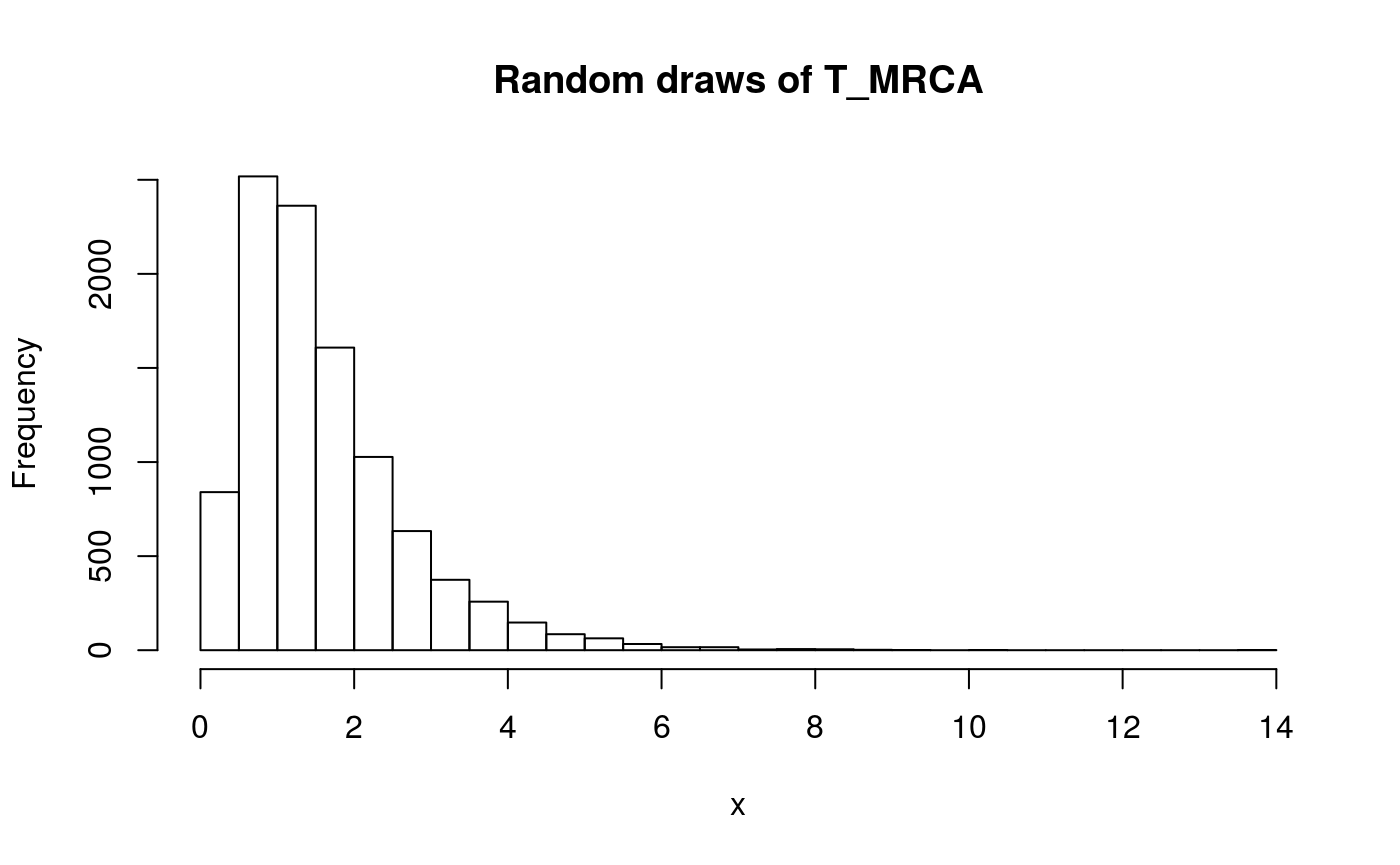
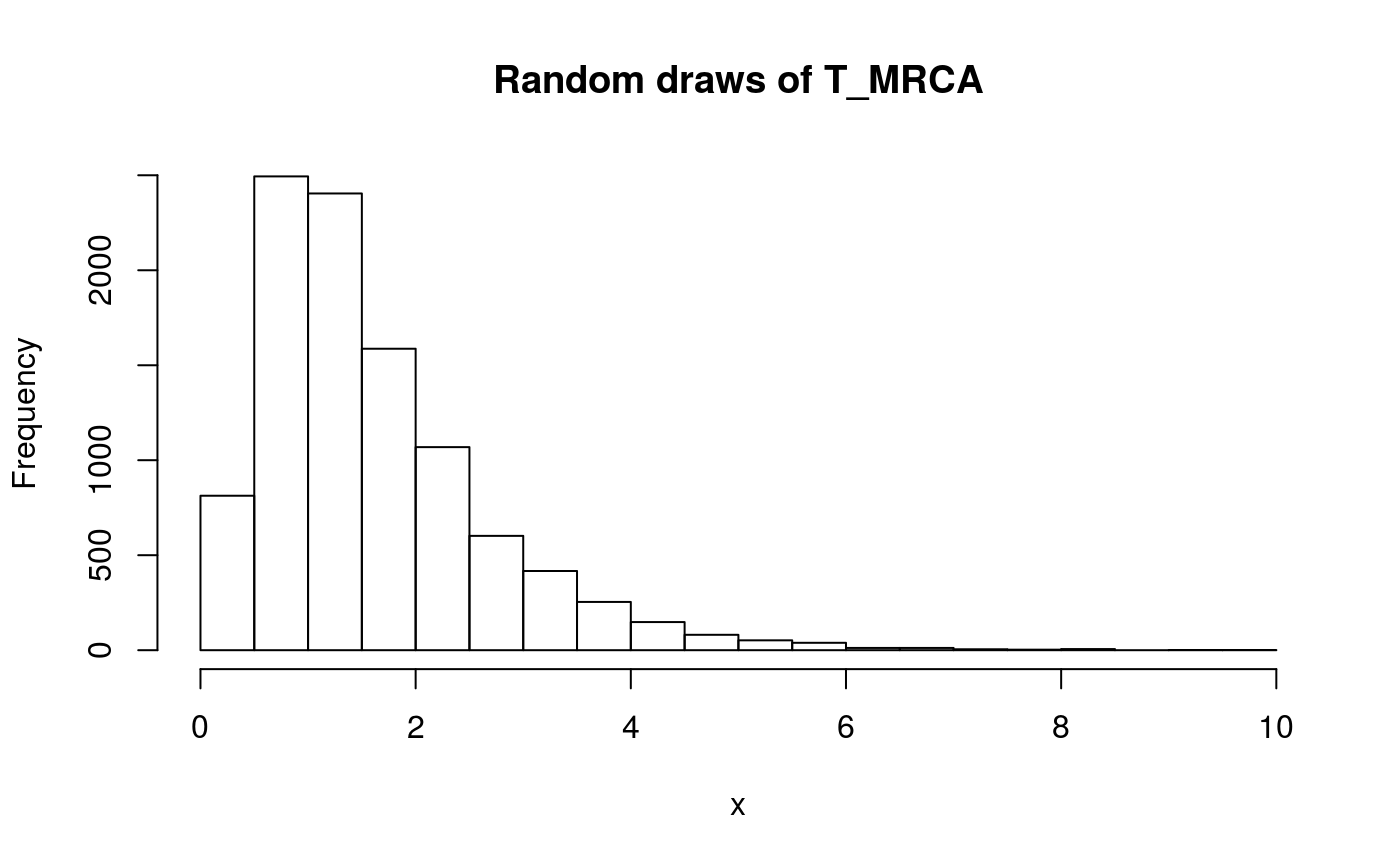
Updated references of website

diff --git a/docs/articles/ticphasetype.html b/docs/articles/ticphasetype.html
@@ -174,9 +174,9 @@
 <a class="sourceLine" id="cb8-13" data-line-number="13">subint_arbit[n<span class="dv">-1</span>,n<span class="dv">-1</span>] &lt;-<span class="st"> </span><span class="dv">-1</span></a></code></pre></div>
 <div class="sourceCode" id="cb9"><pre class="sourceCode r"><code class="sourceCode r"><a class="sourceLine" id="cb9-1" data-line-number="1">subint_arbit</a>
 <a class="sourceLine" id="cb9-2" data-line-number="2"><span class="co">#&gt;           [,1]       [,2]      [,3]      [,4]</span></a>
-<a class="sourceLine" id="cb9-3" data-line-number="3"><span class="co">#&gt; [1,] -16.77763   6.516313  7.696890  2.564430</span></a>
-<a class="sourceLine" id="cb9-4" data-line-number="4"><span class="co">#&gt; [2,]   0.00000 -11.832978  6.306856  5.526122</span></a>
-<a class="sourceLine" id="cb9-5" data-line-number="5"><span class="co">#&gt; [3,]   0.00000   0.000000 -5.070151  5.070151</span></a>
+<a class="sourceLine" id="cb9-3" data-line-number="3"><span class="co">#&gt; [1,] -12.73908   6.881229  1.644583  4.213269</span></a>
+<a class="sourceLine" id="cb9-4" data-line-number="4"><span class="co">#&gt; [2,]   0.00000 -11.098583  8.338307  2.760276</span></a>
+<a class="sourceLine" id="cb9-5" data-line-number="5"><span class="co">#&gt; [3,]   0.00000   0.000000 -1.147533  1.147533</span></a>
 <a class="sourceLine" id="cb9-6" data-line-number="6"><span class="co">#&gt; [4,]   0.00000   0.000000  0.000000 -1.000000</span></a></code></pre></div>
 <p>This matrix can be supplied to the <code><a href="../reference/cont_phase_type.html">cont_phase_type()</a></code> generator function, together with optional initial probabilities:</p>
 <div class="sourceCode" id="cb10"><pre class="sourceCode r"><code class="sourceCode r"><a class="sourceLine" id="cb10-1" data-line-number="1">T_arbit_ph &lt;-<span class="st"> </span><span class="kw"><a href="../reference/cont_phase_type.html">cont_phase_type</a></span>(<span class="dt">subint_mat =</span> subint_arbit)</a>
@@ -188,9 +188,9 @@
 <a class="sourceLine" id="cb11-2" data-line-number="2"><span class="co">#&gt; </span></a>
 <a class="sourceLine" id="cb11-3" data-line-number="3"><span class="co">#&gt; Subintensity matrix:</span></a>
 <a class="sourceLine" id="cb11-4" data-line-number="4"><span class="co">#&gt;           [,1]       [,2]      [,3]      [,4]</span></a>
-<a class="sourceLine" id="cb11-5" data-line-number="5"><span class="co">#&gt; [1,] -16.77763   6.516313  7.696890  2.564430</span></a>
-<a class="sourceLine" id="cb11-6" data-line-number="6"><span class="co">#&gt; [2,]   0.00000 -11.832978  6.306856  5.526122</span></a>
-<a class="sourceLine" id="cb11-7" data-line-number="7"><span class="co">#&gt; [3,]   0.00000   0.000000 -5.070151  5.070151</span></a>
+<a class="sourceLine" id="cb11-5" data-line-number="5"><span class="co">#&gt; [1,] -12.73908   6.881229  1.644583  4.213269</span></a>
+<a class="sourceLine" id="cb11-6" data-line-number="6"><span class="co">#&gt; [2,]   0.00000 -11.098583  8.338307  2.760276</span></a>
+<a class="sourceLine" id="cb11-7" data-line-number="7"><span class="co">#&gt; [3,]   0.00000   0.000000 -1.147533  1.147533</span></a>
 <a class="sourceLine" id="cb11-8" data-line-number="8"><span class="co">#&gt; [4,]   0.00000   0.000000  0.000000 -1.000000</span></a>
 <a class="sourceLine" id="cb11-9" data-line-number="9"><span class="co">#&gt; </span></a>
 <a class="sourceLine" id="cb11-10" data-line-number="10"><span class="co">#&gt; Initial probabilities:</span></a>
@@ -200,9 +200,9 @@
 <a class="sourceLine" id="cb11-14" data-line-number="14"><span class="co">#&gt; Defect:</span></a>
 <a class="sourceLine" id="cb11-15" data-line-number="15"><span class="co">#&gt; [1] 0</span></a>
 <a class="sourceLine" id="cb11-16" data-line-number="16"><span class="co">#&gt; </span></a>
-<a class="sourceLine" id="cb11-17" data-line-number="17"><span class="co">#&gt; Mean: 1.223737</span></a>
+<a class="sourceLine" id="cb11-17" data-line-number="17"><span class="co">#&gt; Mean: 1.593318</span></a>
 <a class="sourceLine" id="cb11-18" data-line-number="18"><span class="co">#&gt; </span></a>
-<a class="sourceLine" id="cb11-19" data-line-number="19"><span class="co">#&gt; Variance: 1.040859</span></a></code></pre></div>
+<a class="sourceLine" id="cb11-19" data-line-number="19"><span class="co">#&gt; Variance: 1.62606</span></a></code></pre></div>
 </div>
 <div id="density-distribution-and-quantile-functions" class="section level2">
 <h2 class="hasAnchor">
@@ -233,7 +233,7 @@
 <a class="sourceLine" id="cb17-5" data-line-number="5"><span class="kw"><a href="https://rdrr.io/r/graphics/title.html">title</a></span>(<span class="st">'Distribution function of T_MRCA'</span>)</a></code></pre></div>
 <p><img src="ticphasetype_files/figure-html/unnamed-chunk-17-1.png" width="700"></p>
 <div class="sourceCode" id="cb18"><pre class="sourceCode r"><code class="sourceCode r"><a class="sourceLine" id="cb18-1" data-line-number="1"><span class="kw"><a href="../reference/dphtype.html">rphtype</a></span>(<span class="dv">3</span>, T_MRCA_ph)</a>
-<a class="sourceLine" id="cb18-2" data-line-number="2"><span class="co">#&gt; [1] 1.175846 1.442736 0.644917</span></a></code></pre></div>
+<a class="sourceLine" id="cb18-2" data-line-number="2"><span class="co">#&gt; [1] 2.978160 1.627345 2.093345</span></a></code></pre></div>
 <div class="sourceCode" id="cb19"><pre class="sourceCode r"><code class="sourceCode r"><a class="sourceLine" id="cb19-1" data-line-number="1">x &lt;-<span class="st"> </span><span class="kw"><a href="../reference/dphtype.html">rphtype</a></span>(<span class="dv">10000</span>, T_MRCA_ph)</a>
 <a class="sourceLine" id="cb19-2" data-line-number="2"><span class="kw"><a href="https://rdrr.io/r/graphics/hist.html">hist</a></span>(x, <span class="dt">main =</span> <span class="st">'Random draws of T_MRCA'</span>, <span class="dt">breaks=</span><span class="dv">20</span>)</a></code></pre></div>
 <p><img src="ticphasetype_files/figure-html/unnamed-chunk-19-1.png" width="700"></p>
@@ -458,7 +458,7 @@
 <a class="sourceLine" id="cb31-5" data-line-number="5"><span class="kw"><a href="https://rdrr.io/r/graphics/title.html">title</a></span>(<span class="st">'Quantile function of S_total with theta=3 and n=10'</span>)</a></code></pre></div>
 <p><img src="ticphasetype_files/figure-html/unnamed-chunk-31-1.png" width="700"></p>
 <div class="sourceCode" id="cb32"><pre class="sourceCode r"><code class="sourceCode r"><a class="sourceLine" id="cb32-1" data-line-number="1"><span class="kw"><a href="../reference/dphtype.html">rphtype</a></span>(<span class="dv">3</span>, S_tot_ph)</a>
-<a class="sourceLine" id="cb32-2" data-line-number="2"><span class="co">#&gt; [1] 10 23 10</span></a></code></pre></div>
+<a class="sourceLine" id="cb32-2" data-line-number="2"><span class="co">#&gt; [1] 11  3  7</span></a></code></pre></div>
 <div class="sourceCode" id="cb33"><pre class="sourceCode r"><code class="sourceCode r"><a class="sourceLine" id="cb33-1" data-line-number="1">x &lt;-<span class="st"> </span><span class="kw"><a href="../reference/dphtype.html">rphtype</a></span>(<span class="dv">10000</span>, S_tot_ph)</a>
 <a class="sourceLine" id="cb33-2" data-line-number="2"><span class="kw"><a href="https://rdrr.io/r/graphics/hist.html">hist</a></span>(x, <span class="dt">main =</span> <span class="st">'Random draws of S_total with theta=3 and n=10'</span>, <span class="dt">breaks=</span><span class="dv">20</span>)</a></code></pre></div>
 <p><img src="ticphasetype_files/figure-html/unnamed-chunk-33-1.png" width="700"></p>

diff --git a/docs/reference/index.html b/docs/reference/index.html
@@ -120,23 +120,11 @@
     <tbody>
       <tr>
         <th colspan="2">
-          <h2 id="section-all-functions" class="hasAnchor"><a href="#section-all-functions" class="anchor"></a>All functions</h2>
+          <h2 id="section-continuous-phase-type-distributions" class="hasAnchor"><a href="#section-continuous-phase-type-distributions" class="anchor"></a>Continuous phase-type distributions</h2>
           <p class="section-desc"></p>
         </th>
       </tr>
       <tr>
-        
-        <td>
-          <p><code><a href="RateMAndStateSpace.html">RateMAndStateSpace()</a></code> </p>
-        </td>
-        <td><p>RateMAndStateSpace</p></td>
-      </tr><tr>
-        
-        <td>
-          <p><code><a href="RewTransform.html">RewTransform()</a></code> </p>
-        </td>
-        <td><p>Discretize MPH object with a reward vector</p></td>
-      </tr><tr>
         
         <td>
           <p><code><a href="cont_phase_type.html">cont_phase_type()</a></code> </p>
@@ -145,22 +133,29 @@
       </tr><tr>
         
         <td>
+          <p><code><a href="t_mrca.html">t_mrca()</a></code> </p>
+        </td>
+        <td><p>Time until the most recent common ancestor</p></td>
+      </tr><tr>
+        
+        <td>
+          <p><code><a href="t_total.html">t_total()</a></code> </p>
+        </td>
+        <td><p>Total tree length</p></td>
+      </tr>
+    </tbody><tbody>
+      <tr>
+        <th colspan="2">
+          <h2 id="section-discrete-phase-type-distributions" class="hasAnchor"><a href="#section-discrete-phase-type-distributions" class="anchor"></a>Discrete phase-type distributions</h2>
+          <p class="section-desc"></p>
+        </th>
+      </tr>
+      <tr>
+        
+        <td>
           <p><code><a href="disc_phase_type.html">disc_phase_type()</a></code> </p>
         </td>
         <td><p><code>disc_phase_type</code> class</p></td>
-      </tr><tr>
-        
-        <td>
-          <p><code><a href="dphtype.html">dphtype()</a></code> <code><a href="dphtype.html">qphtype()</a></code> <code><a href="dphtype.html">pphtype()</a></code> <code><a href="dphtype.html">rphtype()</a></code> </p>
-        </td>
-        <td><p>Density, distribution function, quantile function and random generation for
-phase-type distributions</p></td>
-      </tr><tr>
-        
-        <td>
-          <p><code><a href="itons.html">itons()</a></code> </p>
-        </td>
-        <td><p>I-tons (frequency counts)</p></td>
       </tr><tr>
         
         <td>
@@ -176,21 +171,9 @@ phase-type distributions</p></td>
       </tr><tr>
         
         <td>
-          <p><code><a href="sfs.html">sfs()</a></code> </p>
+          <p><code><a href="itons.html">itons()</a></code> </p>
         </td>
-        <td><p>Site Frequency Spectrum</p></td>
-      </tr><tr>
-        
-        <td>
-          <p><code><a href="t_mrca.html">t_mrca()</a></code> </p>
-        </td>
-        <td><p>Time until the most recent common ancestor</p></td>
-      </tr><tr>
-        
-        <td>
-          <p><code><a href="t_total.html">t_total()</a></code> </p>
-        </td>
-        <td><p>Total tree length</p></td>
+        <td><p>I-tons (frequency counts)</p></td>
       </tr><tr>
         
         <td>
@@ -200,9 +183,44 @@ phase-type distributions</p></td>
       </tr><tr>
         
         <td>
-          <p><code><a href="var.html">var()</a></code> </p>
+          <p><code><a href="sfs.html">sfs()</a></code> </p>
         </td>
-        <td><p>Variance of cont_phase_type distributions</p></td>
+        <td><p>Site Frequency Spectrum</p></td>
+      </tr>
+    </tbody><tbody>
+      <tr>
+        <th colspan="2">
+          <h2 id="section-distribution-quantile-and-probability-functions" class="hasAnchor"><a href="#section-distribution-quantile-and-probability-functions" class="anchor"></a>Distribution, quantile and probability functions</h2>
+          <p class="section-desc"></p>
+        </th>
+      </tr>
+      <tr>
+        
+        <td>
+          <p><code><a href="dphtype.html">dphtype()</a></code> <code><a href="dphtype.html">qphtype()</a></code> <code><a href="dphtype.html">pphtype()</a></code> <code><a href="dphtype.html">rphtype()</a></code> </p>
+        </td>
+        <td><p>Density, distribution function, quantile function and random generation for
+phase-type distributions</p></td>
+      </tr>
+    </tbody><tbody>
+      <tr>
+        <th colspan="2">
+          <h2 id="section-helper-functions" class="hasAnchor"><a href="#section-helper-functions" class="anchor"></a>Helper functions</h2>
+          <p class="section-desc"><p>Internal helper functions.</p></p>
+        </th>
+      </tr>
+      <tr>
+        
+        <td>
+          <p><code><a href="RateMAndStateSpace.html">RateMAndStateSpace()</a></code> </p>
+        </td>
+        <td><p>RateMAndStateSpace</p></td>
+      </tr><tr>
+        
+        <td>
+          <p><code><a href="RewTransform.html">RewTransform()</a></code> </p>
+        </td>
+        <td><p>Discretize MPH object with a reward vector</p></td>
       </tr>
     </tbody>
     </table>
@@ -211,7 +229,10 @@ phase-type distributions</p></td>
   <div class="col-md-3 hidden-xs hidden-sm" id="sidebar">
     <h2>Contents</h2>
     <ul class="nav nav-pills nav-stacked">
-      <li><a href="#section-all-functions">All functions</a></li>
+      <li><a href="#section-continuous-phase-type-distributions">Continuous phase-type distributions</a></li>
+      <li><a href="#section-discrete-phase-type-distributions">Discrete phase-type distributions</a></li>
+      <li><a href="#section-distribution-quantile-and-probability-functions">Distribution, quantile and probability functions</a></li>
+      <li><a href="#section-helper-functions">Helper functions</a></li>
     </ul>
   </div>
 </div>
